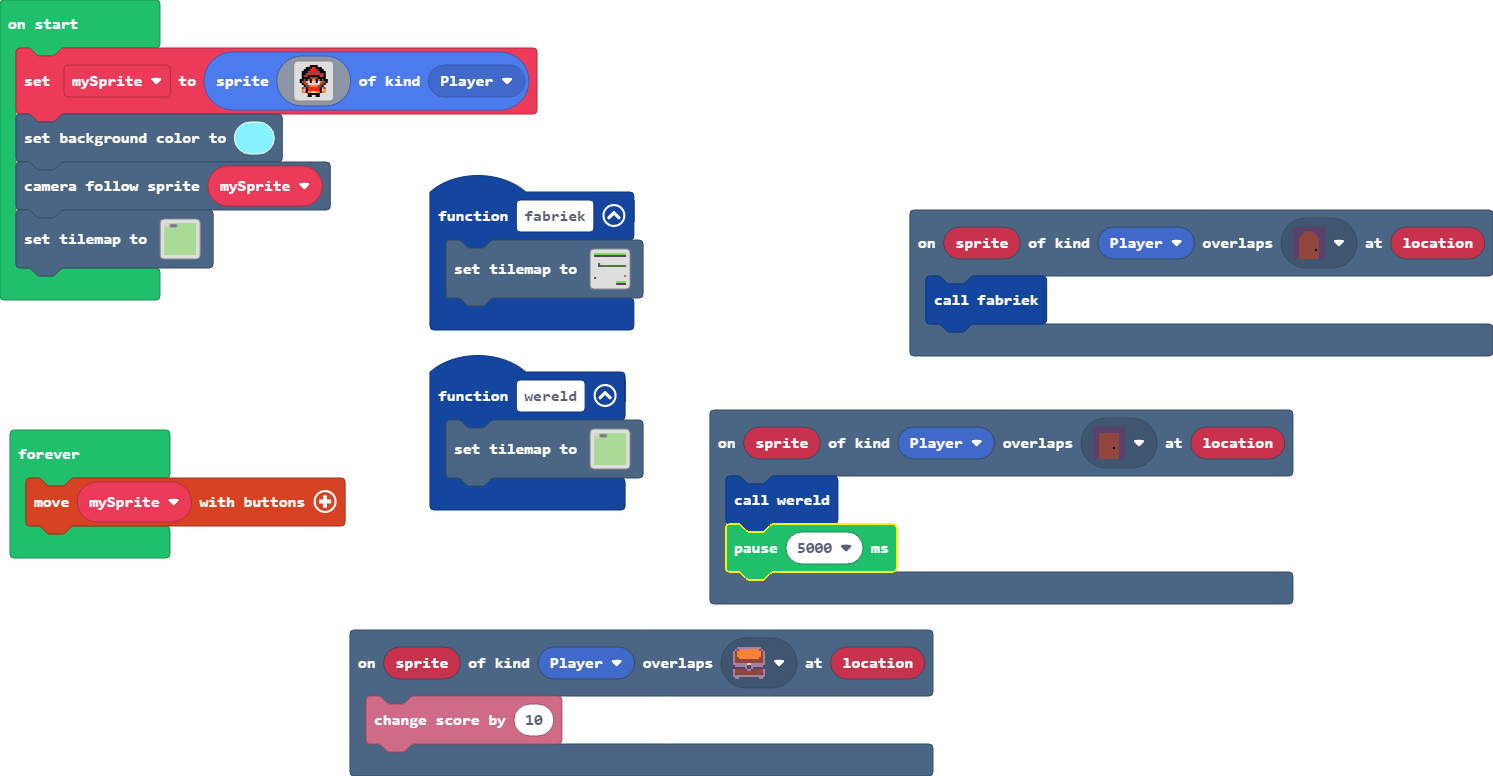
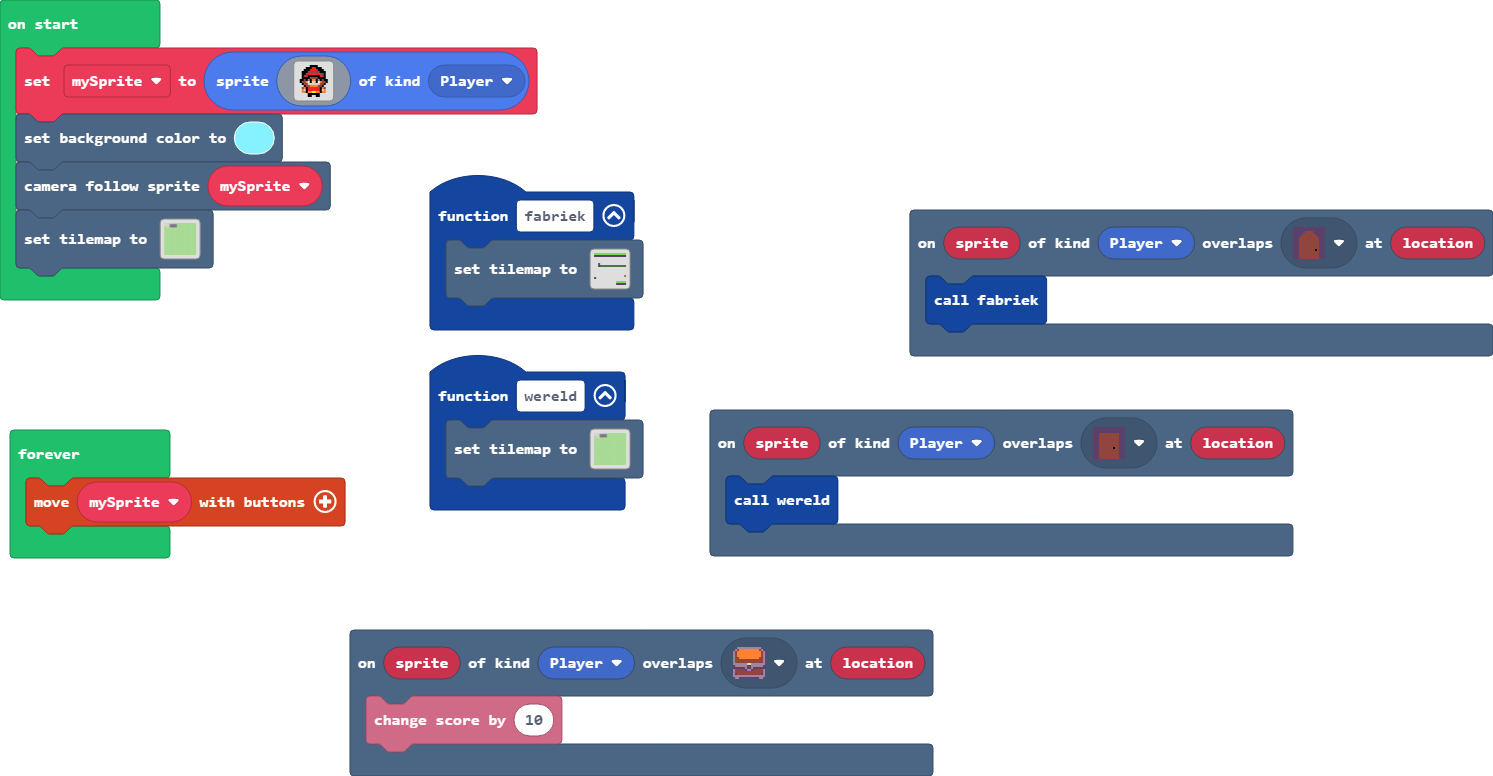
Update main.blocks, main.ts, tilemap.g.jres, tilemap.g.ts

Changed region(s): [[0.4622, 0.6495, 0.8935, 0.8041]]

diff --git a/tilemap.g.ts b/tilemap.g.ts
@@ -5,8 +5,6 @@ namespace myTiles {
     //% fixedInstance jres blockIdentity=images._tile
     export const tile1 = image.ofBuffer(hex``);
     //% fixedInstance jres blockIdentity=images._tile
-    export const tile4 = image.ofBuffer(hex``);
-    //% fixedInstance jres blockIdentity=images._tile
     export const tile5 = image.ofBuffer(hex``);
     //% fixedInstance jres blockIdentity=images._tile
     export const tile2 = image.ofBuffer(hex``);
@@ -62,28 +60,11 @@ namespace myTiles {
     export const tile26 = image.ofBuffer(hex``);
     //% fixedInstance jres blockIdentity=images._tile
     export const tile30 = image.ofBuffer(hex``);
+    //% fixedInstance jres blockIdentity=images._tile
+    export const tile4 = image.ofBuffer(hex``);
 
     helpers._registerFactory("tilemap", function(name: string) {
         switch(helpers.stringTrim(name)) {
-            case "level1":
[1 lines of base64/hex data omitted]
-. . . . . . . . . . . . . . . . 
-. . . . . . . . . . . . . . . . 
-. . . . . . . . . . . . . . . . 
-. . . . . . . . . . . . . . . . 
-. . . . . . . . . . . . . . . . 
-. . . . . . . . . . . . . . . . 
-. . . . . . . . . . . . . . . . 
-. . . . . . . . . . . . . . . . 
-. . . . . . . . . . . . . . . . 
-. . . . . . . . . . . . . . . . 
-. . . . . . . . . . . . . . . . 
-. . . . . . . . . . . . . . . . 
-. . . . . . . . . . . . . . . . 
-. . . . . . . . . . . . . . . . 
-. . . . . . . . . . . . . . . . 
-. . . . . . . . . . . . . . . . 
-`, [myTiles.transparency16,myTiles.tile4,myTiles.tile5,myTiles.tile2,myTiles.tile3,myTiles.tile6,myTiles.tile7,myTiles.tile8,myTiles.tile9,myTiles.tile10,myTiles.tile11,myTiles.tile12,myTiles.tile13,myTiles.tile14,myTiles.tile15,myTiles.tile16], TileScale.Sixteen);
             case "level2":
[1 lines of base64/hex data omitted]
 ....................................................................................................
@@ -240,25 +221,6 @@ namespace myTiles {
 ..................................................
 ..................................................
 `, [myTiles.transparency16,sprites.castle.tileGrass2,sprites.castle.tilePath4,sprites.castle.tilePath1,sprites.castle.tilePath6,sprites.castle.tilePath2,sprites.castle.tilePath3,sprites.castle.tilePath7,sprites.castle.tilePath9,sprites.castle.tilePath8,sprites.castle.tilePath5,myTiles.tile13,myTiles.tile22,myTiles.tile24], TileScale.Sixteen);
-            case "level4":
-            case "level4":return tiles.createTilemap(hex`1000100005050505050505050505050505050505020202020202020202020202020202020000000000000000000000000000000000000000000000000000000000000000000000000000000000000000000000000000030000000000000000000000000000000201010101010101010101010101000000000000000000000000000000000000000000000000000000000000000000000000000000000000000000000000000000000000000000000000000000000000000000000000000000000000000604000000000000000000000000000000000000000000000000000000000000000000000000000000000000050505050500000000000000000000000202020202`, img`
-. . . . . . . . . . . . . . . . 
-. . . . . . . . . . . . . . . . 
-. . . . . . . . . . . . . . . . 
-. . . . . . . . . . . . . . . . 
-. . . . . . . . . . . . . . . . 
-. . 2 . . . . . . . . . . . . . 
-. . 2 2 2 2 2 2 2 2 2 2 2 2 2 2 
-. . . . . . . . . . . . . . . . 
-. . . . . . . . . . . . . . . . 
-. . . . . . . . . . . . . . . . 
-. . . . . . . . . . . . . . . . 
-. . . . . . . . . . . . . . . . 
-. . . . . . . . . . . . . . . . 
-. . . . . . . . . . . . . . . . 
-. . . . . . . . . . . . . . . . 
-. . . . . . . . . . . . . . . . 
-`, [myTiles.transparency16,myTiles.tile26,myTiles.tile23,myTiles.tile27,myTiles.tile28,myTiles.tile29,myTiles.tile30], TileScale.Sixteen);
             case "level5":
             case "level5":return tiles.createTilemap(hex`1000100000000000000000000000000000000000000000000000000000000000000000000000000000000000000000000000000000000000000000000000000000000000000000000000000000000000000000000000000000000000000000000000000000000000000000000000000000000000000000000000000000000000000000000000000000000000000000000000000000000000000000000000000000000000000000000000000000000000000000000000000000000000000000000000000000000000000000000000000000000000000000000000000000000000000000000000000000000000000000000000000000000000000000000000000000000000`, img`
 . . . . . . . . . . . . . . . . 
@@ -278,6 +240,44 @@ namespace myTiles {
 . . . . . . . . . . . . . . . . 
 . . . . . . . . . . . . . . . . 
 `, [myTiles.transparency16], TileScale.Sixteen);
+            case "level1":
[1 lines of base64/hex data omitted]
+. . . . . . . . . . . . . . . . 
+. . . . . . . . . . . . . . . . 
+. . . . . . . . . . . . . . . . 
+. . . . . . . . . . . . . . . . 
+. . . . . . . . . . . . . . . . 
+. . . . . . . . . . . . . . . . 
+. . . . . . . . . . . . . . . . 
+. . . . . . . . . . . . . . . . 
+. . . . . . . . . . . . . . . . 
+. . . . . . . . . . . . . . . . 
+. . . . . . . . . . . . . . . . 
+. . . . . . . . . . . . . . . . 
+. . . . . . . . . . . . . . . . 
+. . . . . . . . . . . . . . . . 
+. . . . . . . . . . . . . . . . 
+. . . . . . . . . . . . . . . . 
+`, [myTiles.transparency16,myTiles.tile4,myTiles.tile5,myTiles.tile2,myTiles.tile3,myTiles.tile6,myTiles.tile7,myTiles.tile8,myTiles.tile9,myTiles.tile10,myTiles.tile11,myTiles.tile12,myTiles.tile13,myTiles.tile14,myTiles.tile15,myTiles.tile16], TileScale.Sixteen);
+            case "level4":
+            case "level4":return tiles.createTilemap(hex`1000100005050505050505050505050505050505020202020202020202020202020202020000000000000000000000000000000000000000000000000000000000000000000000000000000000000000000000000000030000000000000000000000000000000201010101010101010101010101000000000000000000000000000000000000000000000000000000000000000000000000000000000000000000000000000000000000000000000000000000000000000000000000000000000000000604000000000000000000000000000000000000000000000000000000000000000000000000000000000000050505050500000000000000000000000202020202`, img`
+. . . . . . . . . . . . . . . . 
+. . . . . . . . . . . . . . . . 
+. . . . . . . . . . . . . . . . 
+. . . . . . . . . . . . . . . . 
+. . . . . . . . . . . . . . . . 
+. . 2 . . . . . . . . . . . . . 
+. . 2 2 2 2 2 2 2 2 2 2 2 2 2 2 
+. . . . . . . . . . . . . . . . 
+. . . . . . . . . . . . . . . . 
+. . . . . . . . . . . . . . . . 
+. . . . . . . . . . . . . . . . 
+. . . . . . . . . . . . . . . . 
+. . . . . . . . . . . . . . . . 
+. . . . . . . . . . . . . . . . 
+. . . . . . . . . . . . . . . . 
+. . . . . . . . . . . . . . . . 
+`, [myTiles.transparency16,myTiles.tile26,myTiles.tile23,myTiles.tile27,myTiles.tile28,myTiles.tile29,myTiles.tile30,myTiles.tile4], TileScale.Sixteen);
         }
         return null;
     })
@@ -286,8 +286,6 @@ namespace myTiles {
         switch(helpers.stringTrim(name)) {
             case "transparency16":return transparency16;
             case "tile1":return tile1;
-            case "tile":
-            case "tile4":return tile4;
             case "tile0":
             case "tile5":return tile5;
             case "tile17":
@@ -344,6 +342,8 @@ namespace myTiles {
             case "tile26":return tile26;
             case "tile43":
             case "tile30":return tile30;
+            case "tile":
+            case "tile4":return tile4;
         }
         return null;
     })

diff --git a/main.ts b/main.ts
@@ -12,7 +12,6 @@ scene.onOverlapTile(SpriteKind.Player, assets.tile`tile43`, function (sprite, lo
 })
 scene.onOverlapTile(SpriteKind.Player, assets.tile`tile41`, function (sprite, location) {
     wereld()
-    pause(5000)
 })
 let mySprite = sprites.create(img`
     . . . . . . f f f f . . . . . . 
